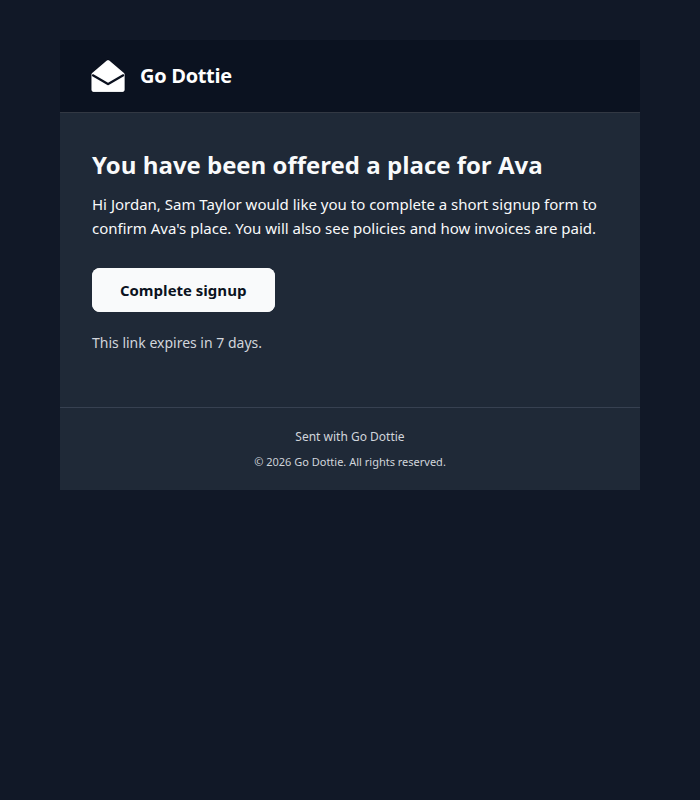
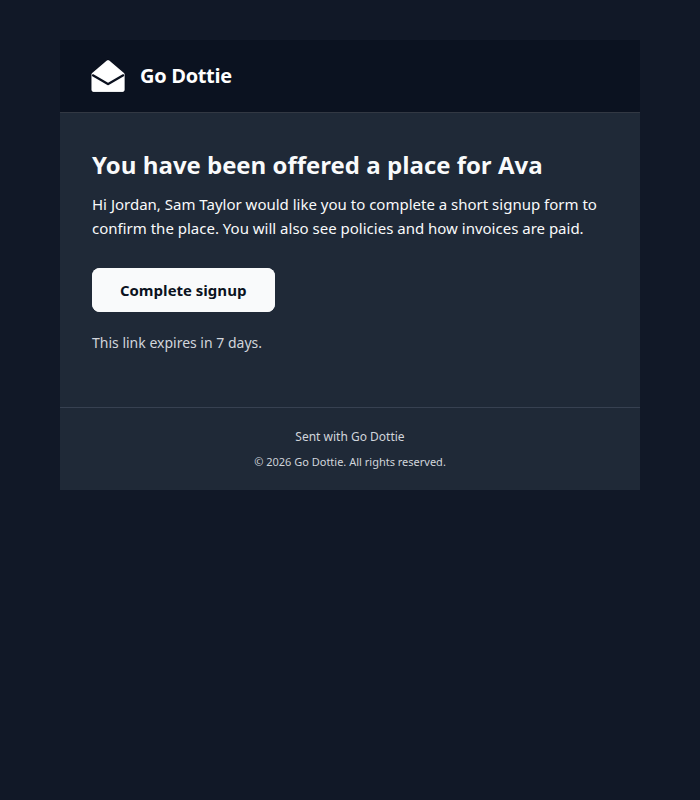
Retire the on roll phrase from enquiry, email, and subscribe copy.

Changed region(s): [[0.21, 0.2812, 0.84, 0.3125]]

diff --git a/src/app/subscribe/page.tsx b/src/app/subscribe/page.tsx
@@ -153,7 +153,7 @@ export default function SubscribePage() {
             <span className="font-semibold text-lg">Choose your plan</span>
           </div>
           <p className="text-white/70 text-sm">
-            Start with Dottie. Add invoicing when a child is on roll. Same account. Cancel anytime.
+            Start with Dottie. Add invoicing when a child has already started with you. Same account. Cancel anytime.
           </p>
         </div>
       )}
@@ -237,7 +237,7 @@ export default function SubscribePage() {
 
       <div>
         <p className="text-sm font-semibold text-gray-500 uppercase tracking-widest">When a child starts — invoicing</p>
-        <p className="text-gray-500 text-sm mt-1">Same login. Add it once they are on roll — funded hours, PDFs, Sunday invoices.</p>
+        <p className="text-gray-500 text-sm mt-1">Same login. Add it once they've already started with you — funded hours, PDFs, Sunday invoices.</p>
       </div>
 
       {/* Plan cards */}

diff --git a/src/app/(dashboard)/enquiries/[id]/ProspectDetail.tsx b/src/app/(dashboard)/enquiries/[id]/ProspectDetail.tsx
@@ -365,12 +365,12 @@ export default function ProspectDetail({
       {prospect.stage === 'accepted' ? (
         <div className="rounded-2xl bg-amber-50 border border-amber-200 p-4 text-sm text-amber-900 space-y-2">
           <p className="font-semibold">Waiting for the parent to complete signup</p>
-          <p>They have a 7-day link. You can still add them yourself if they are already on roll.</p>
+          <p>They have a 7-day link. You can still add them yourself if they've already started with you.</p>
           <Link
             href={addToInvoicingHref({ invoicingActive, prospectId: prospect.id })}
             className="inline-flex items-center h-10 px-4 rounded-xl bg-emerald-600 hover:bg-emerald-700 text-white text-sm font-medium"
           >
-            Already on roll
+            Already started
           </Link>
         </div>
       ) : null}

diff --git a/docs/email-renders/placeOfferEmail.html b/docs/email-renders/placeOfferEmail.html
@@ -64,7 +64,7 @@
               
     <h1 class="ink" style="margin:0 0 12px;font-size:24px;font-weight:700;line-height:1.3;color:#0b1220;">You have been offered a place for Ava</h1>
     <p class="ink" style="margin:0 0 16px;font-size:15px;line-height:1.6;color:#0b1220;">
-      Hi Jordan, Sam Taylor would like you to complete a short signup form to confirm Ava's place.
+      Hi Jordan, Sam Taylor would like you to complete a short signup form to confirm the place.
       You will also see policies and how invoices are paid.
     </p>
     <table role="presentation" cellpadding="0" cellspacing="0" border="0" style="margin:28px 0 20px;"><tr><td align="left"><table role="presentation" cellpadding="0" cellspacing="0" border="0" class="btn" style="margin:0;">

diff --git a/src/lib/email/templates.ts b/src/lib/email/templates.ts
@@ -258,11 +258,10 @@ export function placeOfferEmail(input: {
   const extra = input.comprehensive
     ? 'You will also see policies and how invoices are paid.'
     : 'It only asks for your details and your child’s details.'
-  const place = input.childName ? `${esc(input.childName)}'s place` : 'their place'
   const content = `
     <h1 class="ink" style="${H}">You have been offered a place${esc(child)}</h1>
     <p class="ink" style="${P}">
-      Hi ${esc(parent)}, ${esc(cm)} would like you to complete a short signup form to confirm ${place}.
+      Hi ${esc(parent)}, ${esc(cm)} would like you to complete a short signup form to confirm the place.
       ${esc(extra)}
     </p>
     ${buttonGroup([filledButton('Complete signup', input.formUrl)])}

diff --git a/src/lib/email/customer-emails.test.ts b/src/lib/email/customer-emails.test.ts
@@ -77,6 +77,7 @@ test('payment reminders mention bank transfer only without a pay link', () => {
     formUrl: 'https://www.godottie.cloud/onboard/dummy',
     comprehensive: true,
   })
+  assert.match(offer.html, /a short signup form to confirm the place/)
   assert.match(offer.html, /This link expires in 7 days/)
   assert.doesNotMatch(offer.html, /Invoices show bank transfer details/)
   assert.doesNotMatch(offer.html, /on roll/)
